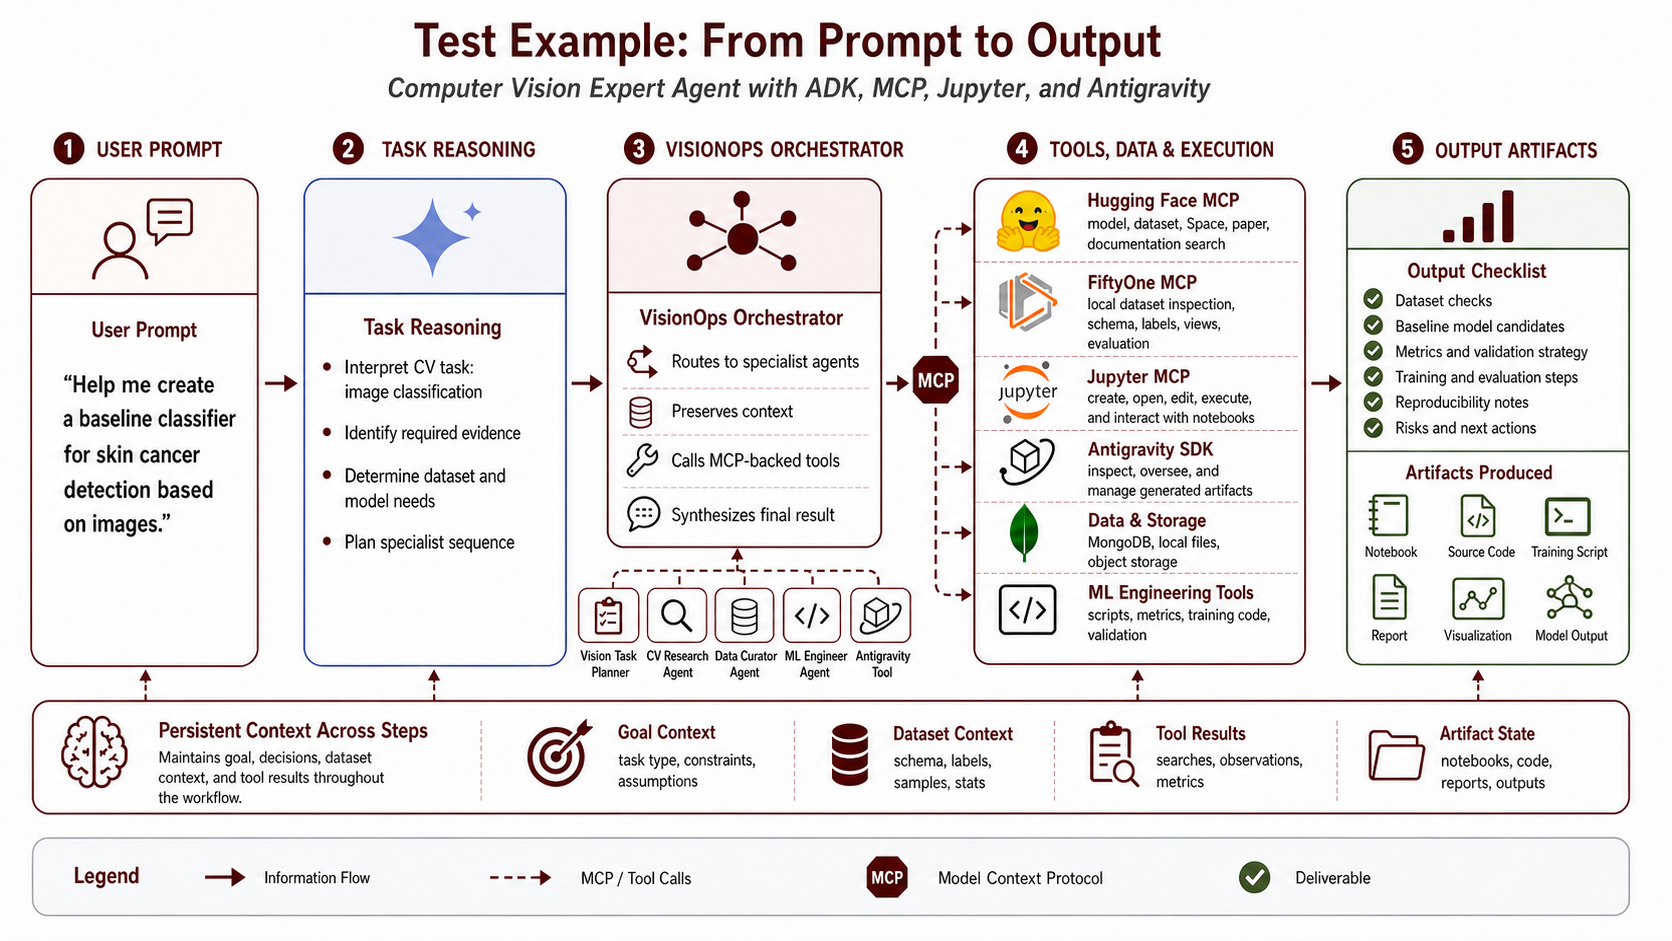
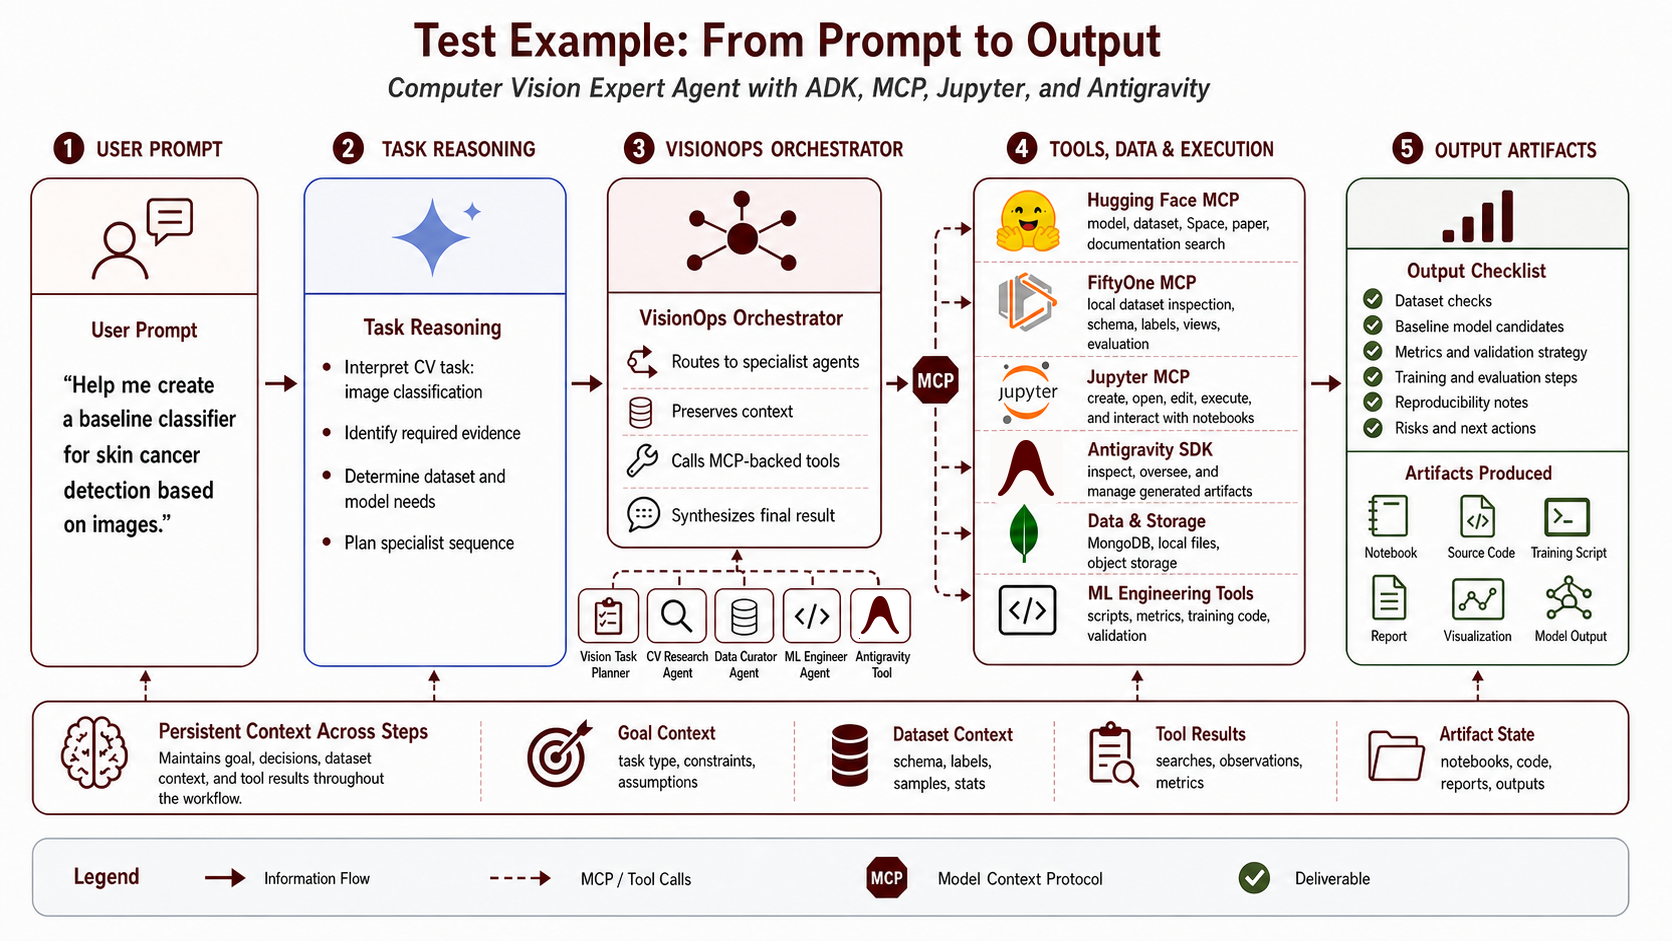
docs

diff --git a/latex/article/article.tex b/latex/article/article.tex
@@ -291,47 +291,58 @@ jupyter_mcp_toolset = McpToolset(
 Cell-level MCP tools such as \texttt{insert\_cell}, \texttt{edit\_cell\_source}, \texttt{execute\_cell}, and \texttt{list\_kernels} allow the agent to build prototypes incrementally. For research workflows, this is useful because intermediate diagnostics such as class histograms, sample grids, and training curves can stay attached to the code that produced them.
 
 \subsection{Antigravity SDK as an Opt-In Orchestrator Tool}
-The previous sections describe the default path for research, data inspection, runtime checks, and notebooks. Antigravity sits outside that default path. Its SDK integration is intentionally placed at the root orchestrator boundary so normal CV routing remains predictable: model research still goes through the CV Research agent, local dataset work still goes through the Data Curator, and notebook prototyping still belongs to the ML Engineer. Antigravity is reserved for requests where a stronger implementation assistant is useful, such as generating an image asset, drafting a validation report, inspecting a project structure, or producing a proposed notebook or script.
+The previous sections introduced specialist agents and tools for model research, dataset inspection, runtime checks, and notebook prototyping. The Antigravity SDK sits beside those components as an opt-in orchestrator tool. It is exposed to the root orchestrator agent, so either the user or the orchestrator can call Antigravity to inspect or oversee artifacts produced by other agents, or when a request calls for stronger reasoning capabilities. Antigravity can be used for image generation, drafting validation reports, inspecting project structure, improving code quality, or producing a proposed notebook or script.
 
-The standalone demo in \texttt{scripts/antigravity\_sdk\_demo.py} shows the core SDK pattern. First, the local agent is configured with repo-local workspace and session directories:
+Antigravity can be used from the CLI, directly inside the Antigravity IDE, or through the SDK. This implementation uses the SDK because it exposes an API for programmatically interacting with the Antigravity platform. The SDK is designed for prototyping custom agents on top of that harness with minimal code, and the documentation positions it around simple Python scripts for iterating on agentic applications, automating software engineering tasks, and running evaluations. In \texttt{visionops\_crew}, that makes Antigravity useful for overseeing artifacts generated by other agents and for implementation-heavy tasks that require more multi-step reasoning.
 
-\begin{lstlisting}[language=Python, caption={Creating a local Antigravity SDK configuration from \texttt{scripts/antigravity\_sdk\_demo.py}.}, label={lst:antigravity_config}]
-from google.antigravity import Agent, LocalAgentConfig
-from google.antigravity.hooks import policy
+The implementation in \texttt{tools.py} shows the SDK pattern used by the app. First, the tool builds a local Antigravity configuration from resolved workspace and artifact paths:
 
-config = LocalAgentConfig(
-    system_instructions=(
-        ANTIGRAVITY_EXPERT_INSTRUCTIONS
-    ),
+\begin{lstlisting}[language=Python, caption={Creating the local Antigravity SDK configuration in \texttt{tools.py}.}, label={lst:antigravity_config}]
+from google.antigravity import LocalAgentConfig
+
+return LocalAgentConfig(
+    system_instructions=ANTIGRAVITY_EXPERT_INSTRUCTIONS,
     model=os.getenv("ANTIGRAVITY_MODEL", "gemini-3.5-flash"),
-    workspaces=[str(REPO_ROOT)],
+    workspaces=[str(paths["workspace"])],
     api_key=os.getenv("GEMINI_API_KEY"),
-    save_dir=str(
-        ANTIGRAVITY_SESSIONS_DIR / "expert"
+    save_dir=str(paths["sessions"] / "expert"),
+    app_data_dir=str(paths["app_data"]),
+    policies=_build_policies(
+        allow_file_edits=allow_file_edits
     ),
-    app_data_dir=str(ANTIGRAVITY_APP_DATA_DIR),
-    policies=[
-        policy.ask_user(
-            "generate_image",
-            handler=interactive.ask_user_handler,
-            name="allow-gen",
-        ),
-        policy.confirm_run_command(handler=interactive.ask_user_handler),
-    ],
+    hooks=extra_hooks,
 )
 \end{lstlisting}
 
 \clearpage
 
-Then a task is executed as an asynchronous chat turn:
+Then \texttt{run\_antigravity\_agent} snapshots the artifact roots, executes the task as an asynchronous chat turn, and diffs those roots after the run:
 
-\begin{lstlisting}[language=Python, caption={Running one Antigravity task as an async SDK call.}, label={lst:antigravity_run}]
-async with Agent(config) as agent:
-    response = await agent.chat(task)
+\begin{lstlisting}[language=Python, caption={Running Antigravity from the orchestrator tool.}, label={lst:antigravity_run}]
+artifact_hook = ArtifactTrackingHook()
+roots = _artifact_roots(
+    paths=paths,
+    include_workspace=allow_file_edits,
+)
+before_files = _snapshot_files(roots)
+
+async with AntigravityAgent(
+    _build_antigravity_config(
+        paths=paths,
+        allow_file_edits=allow_file_edits,
+        extra_hooks=[artifact_hook],
+    )
+) as agent:
+    response = await agent.chat(task.strip())
     result = await response.text()
+
+after_files = _snapshot_files(roots)
+artifact_changes = _diff_snapshots(before_files, after_files)
 \end{lstlisting}
 
-Inside the ADK app, \texttt{run\_antigravity\_agent} wraps this SDK flow with stricter policies: file creation and editing are denied unless the user has confirmed the exact write action, shell command execution is denied in the non-interactive tool path, generated images are allowed, and created or updated artifacts are reported from concrete configured roots. This turns Antigravity into a controlled extension of \texttt{visionops\_crew}, not a hidden side channel.
+\texttt{run\_antigravity\_agent} resolves its root folder from the caller or environment, loads \texttt{.env}, creates a visible \texttt{antigravity-workspace/}, and stores SDK state under \texttt{.antigravity/}. It also attaches a post-tool-call hook so the orchestrator receives Antigravity tool results, then reports created and updated files from the artifact diff.
+
+The policy boundary is deliberately narrow. File creation and editing are denied by default and only enabled when \texttt{allow\_file\_edits} is true after explicit user confirmation. Shell command execution is denied in the non-interactive tool path. Image generation and other non-write tools remain available. This makes Antigravity a controlled extension of \texttt{visionops\_crew}, not a hidden side channel.
 
 \section{End-to-End Walkthrough: An Audited Curation and Training Plan}
 With the implementation pieces in place, the full value of the architecture appears when a request spans several systems. Consider a request that requires local data work and implementation guidance:

diff --git a/latex/slides/visionops_crew_hackathon_workshop.tex b/latex/slides/visionops_crew_hackathon_workshop.tex
@@ -250,7 +250,7 @@
 
 \begin{frame}{Project Intro: VisionOps Crew}
   \centering
-  \includegraphics[height=0.76\textheight]{../../assets/visionops_workflow_artifacts.png}
+  \includegraphics[height=0.76\textheight]{../../assets/visionops_crew_intro_alt_clean_radial_labeled.png}
 \end{frame}
 
 \begin{frame}{Multi-Agent Architecture: Agents}